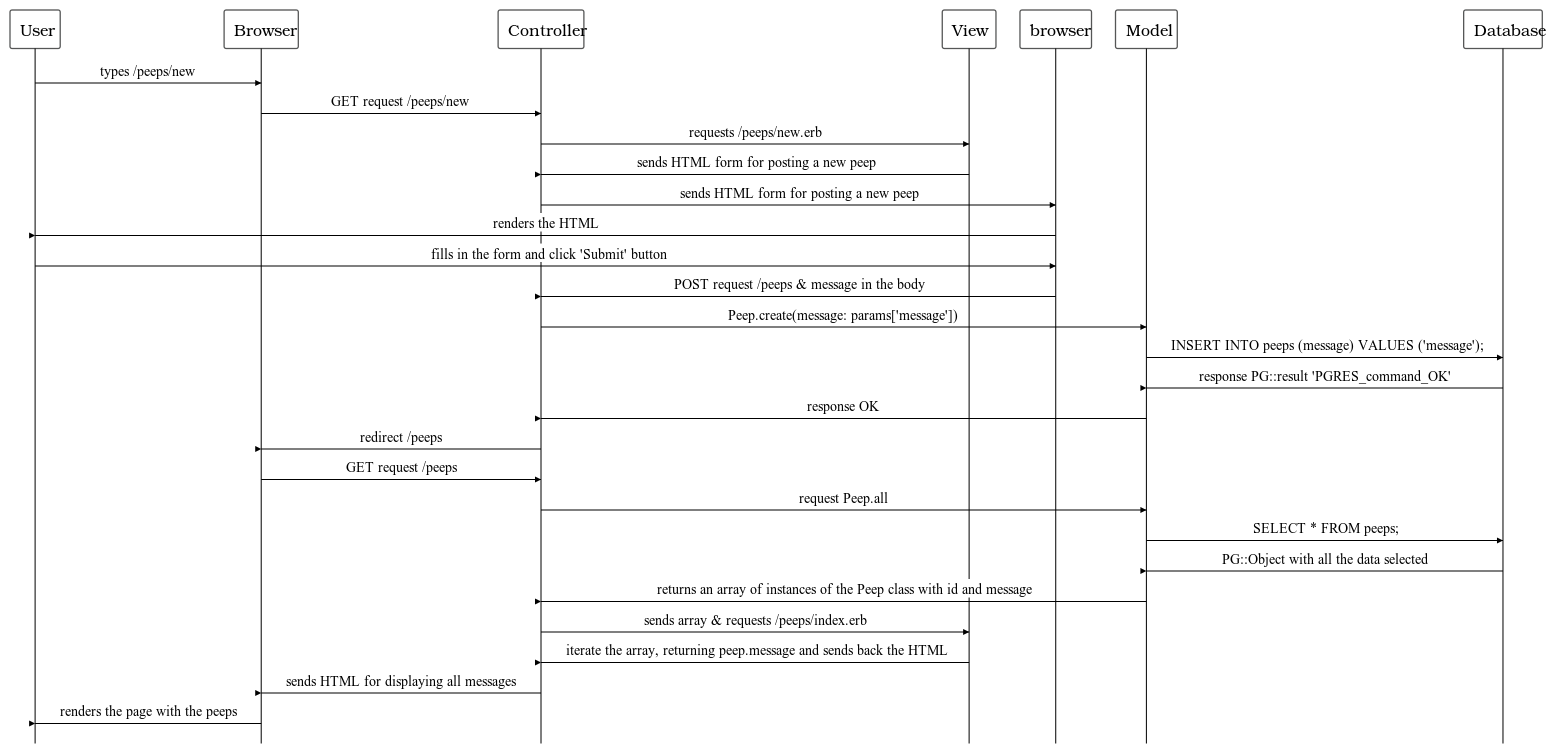
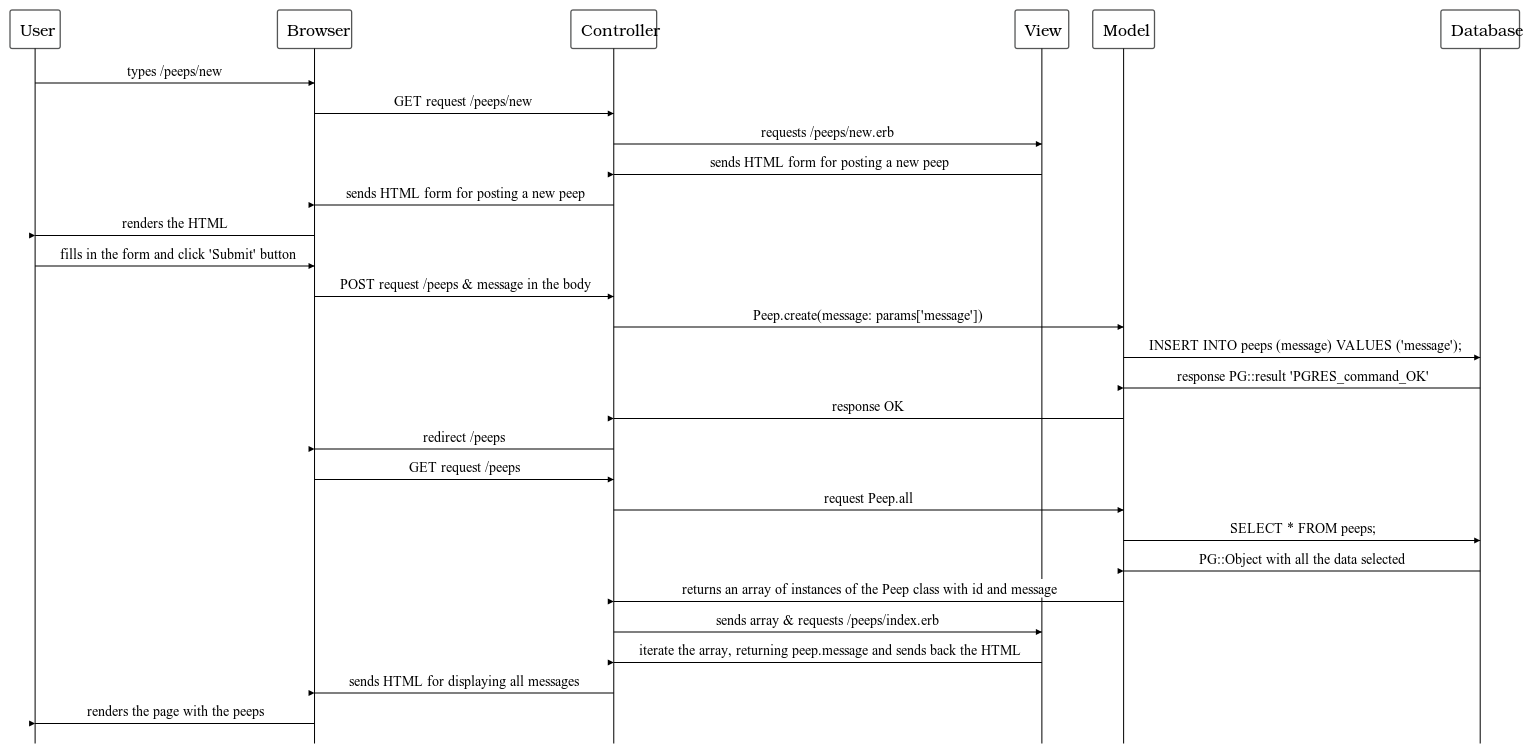
Simple code to pass the test

diff --git a/chitter.rb b/chitter.rb
@@ -1,9 +1,27 @@
 require 'sinatra/base'
+require 'pg'
 
 class Chitter < Sinatra::Base
+  enable :sessions
 
   get '/' do
     'Welcome to Chitter!'
+  end
+
+  get '/peeps' do
+    @message = $message
+    erb :'peeps/index'
+  end
+
+  get '/peeps/new' do
+    erb :'peeps/new'
+  end
+
+  post '/peeps' do
+    $message = params['message']
+    connection = PG.connect(dbname: 'chitter_manager_test')
+    connection.exec("INSERT INTO peeps (message) VALUES('#{$message}');")
+    redirect '/peeps'
   end
 
   run! if app_file == $0
